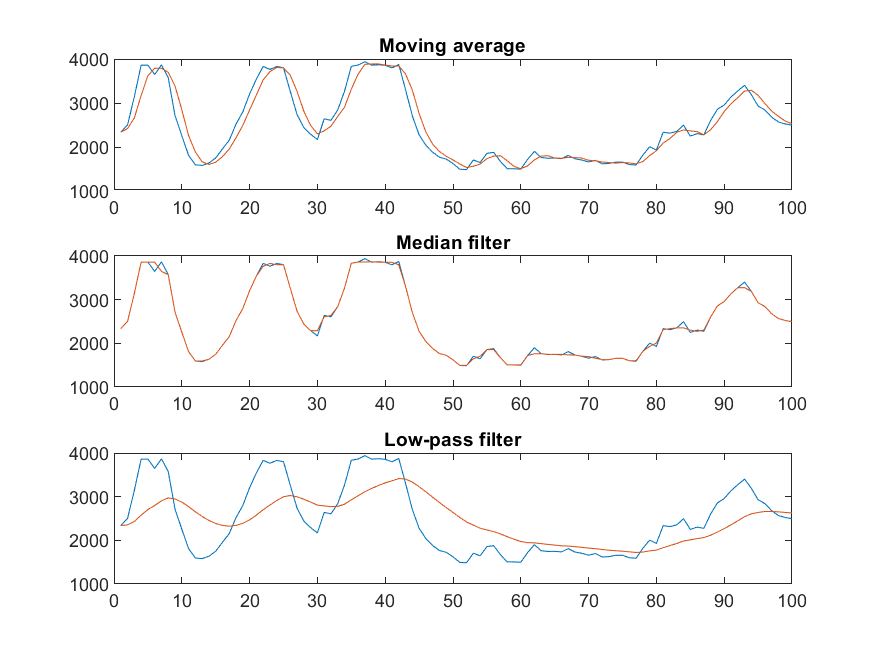
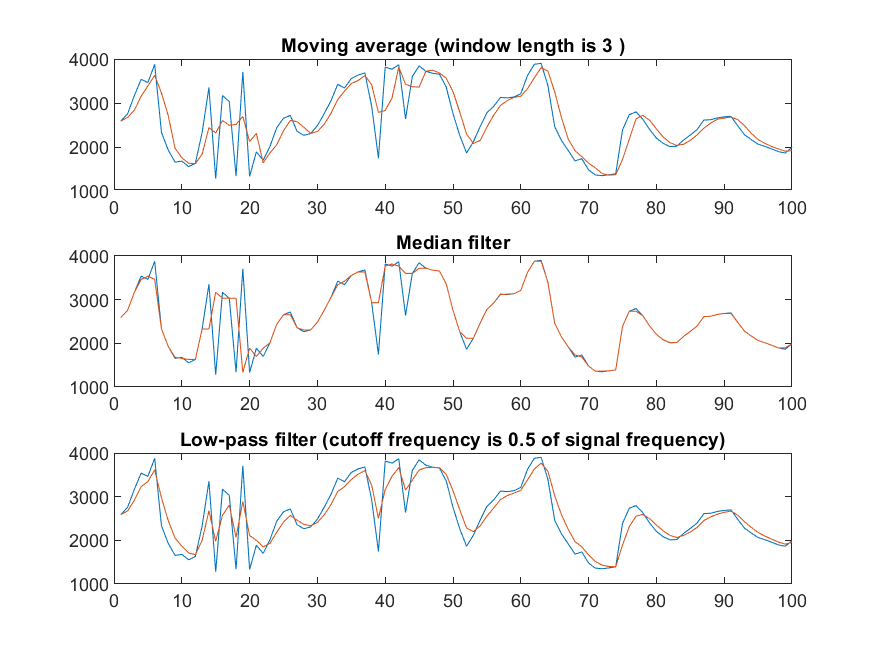
Serial+Matlab (v3)

diff --git a/Matlab/filters.m b/Matlab/filters.m
@@ -5,27 +5,43 @@ end
 y = str2double(y);
 n=length(y);
 
+w = input('Window length for moving average = ');
 buf1 = 0;
-for i = 1:3
+for i = 1:w
     buf1 = buf1+y(i);
     y1(i) = buf1/i;
 end
-for i = 4:n
-    buf1 = buf1+y(i)-y(i-3);
-    y1(i) = buf1/3;
+for i = (w+1):n
+    buf1 = buf1+y(i)-y(i-w);
+    y1(i) = buf1/w;
 end
 
 y2(1) = y(1);
 for i = 2:n-1
-  buf2 = y(i-1:i+1);
-  y2(i) = median(buf2);
+  buf21 = y(i-1:i+1);
+  while 1
+      count = 0;
+      for j = 2:3
+        if buf21(j) < buf21(j-1)
+            buf22 = buf21(j);
+            buf21(j) = buf21(j-1);
+            buf21(j-1) = buf22;
+            count = count+1;
+        end
+      end
+      if count == 0 
+          y2(i) = buf21(2);
+          break 
+      end
+  end
 end
 y2(n) = y(n);
 
-a = input('Cutoff frequency (% of signal frequency) = ');
+
+a = input('Cutoff frequency (from 0 to 1 of signal frequency) = ');
 y3 = y;
 for i = 2:n
-    y3(i) = y3(i-1)*(1-(a/100))+y3(i)*(a/100);
+    y3(i) = y3(i-1)*(1-a)+y3(i)*a;
 end
 
 subplot(3,1,1), plot(y)
@@ -35,9 +51,9 @@ hold on
 subplot(3,1,3), plot(y)
 hold on
 subplot(3,1,1), plot(y1)
-title('Moving average');
+title(['Moving average (window length is ', num2str(w), ' )']);
 subplot(3,1,2), plot(y2)
 title('Median filter');
 subplot(3,1,3), plot(y3)
-title('Low-pass filter');
+title(['Low-pass filter (cutoff frequency is ', num2str(a), ' of signal frequency)']);
 print('filters','-dpng');
